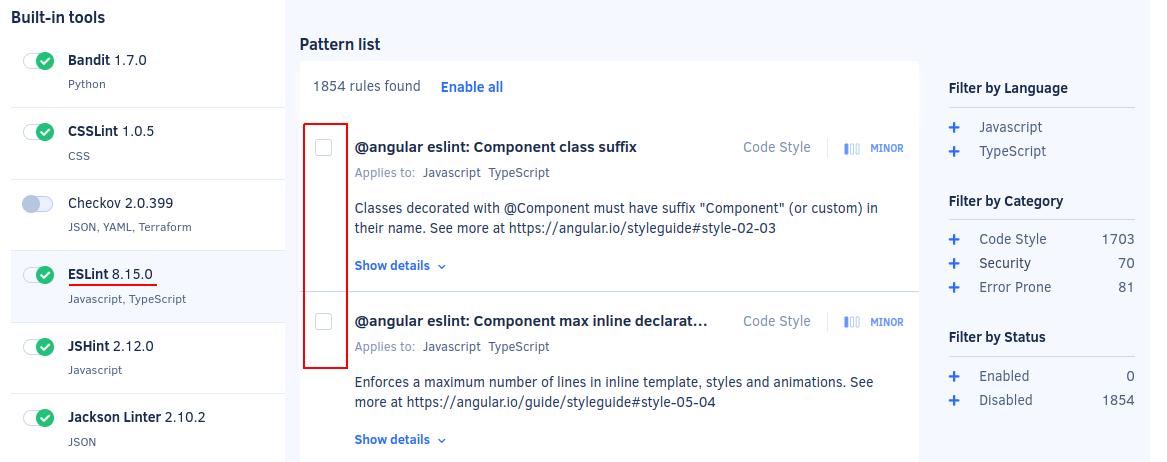
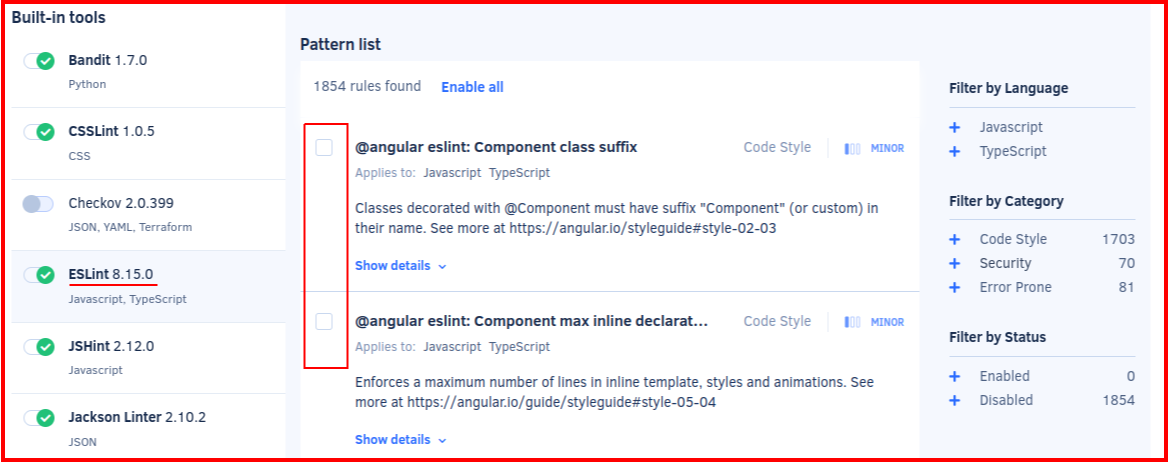
feat: Update images

diff --git a/docs/repositories-configure/configuring-code-patterns.md b/docs/repositories-configure/configuring-code-patterns.md
@@ -23,13 +23,11 @@ To configure the tools and code patterns for a repository:
 
 1.  Open the repository **Code patterns** page.
 
-<!-- TODO DOCS-341 Evaluate whether to keep -->
-[//]: # (    ![Code patterns page]&#40;images/code-patterns.png&#41;)
+    ![Code patterns page](images/code-patterns.png)
 
 1.  Enable or disable the tools that Codacy should use to analyze the repository.
 
-<!-- TODO DOCS-341 Evaluate whether to keep -->
-[//]: # (    ![Toggling tools]&#40;images/code-patterns-toggle-tools.png&#41;)
+    ![Toggling tools](images/code-patterns-toggle-tools.png)
 
 1.  Select a tool to enable or disable its code patterns. Some patterns also allow you to configure the rules for detecting issues.
 
@@ -44,8 +42,7 @@ To configure the tools and code patterns for a repository:
 
         - Codacy displays the tag **New** for one month next to the name of newly added code patterns.
 
-<!-- TODO DOCS-341 Evaluate whether to keep -->
-[//]: # (![Filtering code patterns]&#40;images/code-patterns-filter.png&#41;)
+    ![Configuring code patterns](images/code-patterns-configure.png)
 
 1.  Codacy will use the new configuration when it analyzes a new commit or pull request.
 
